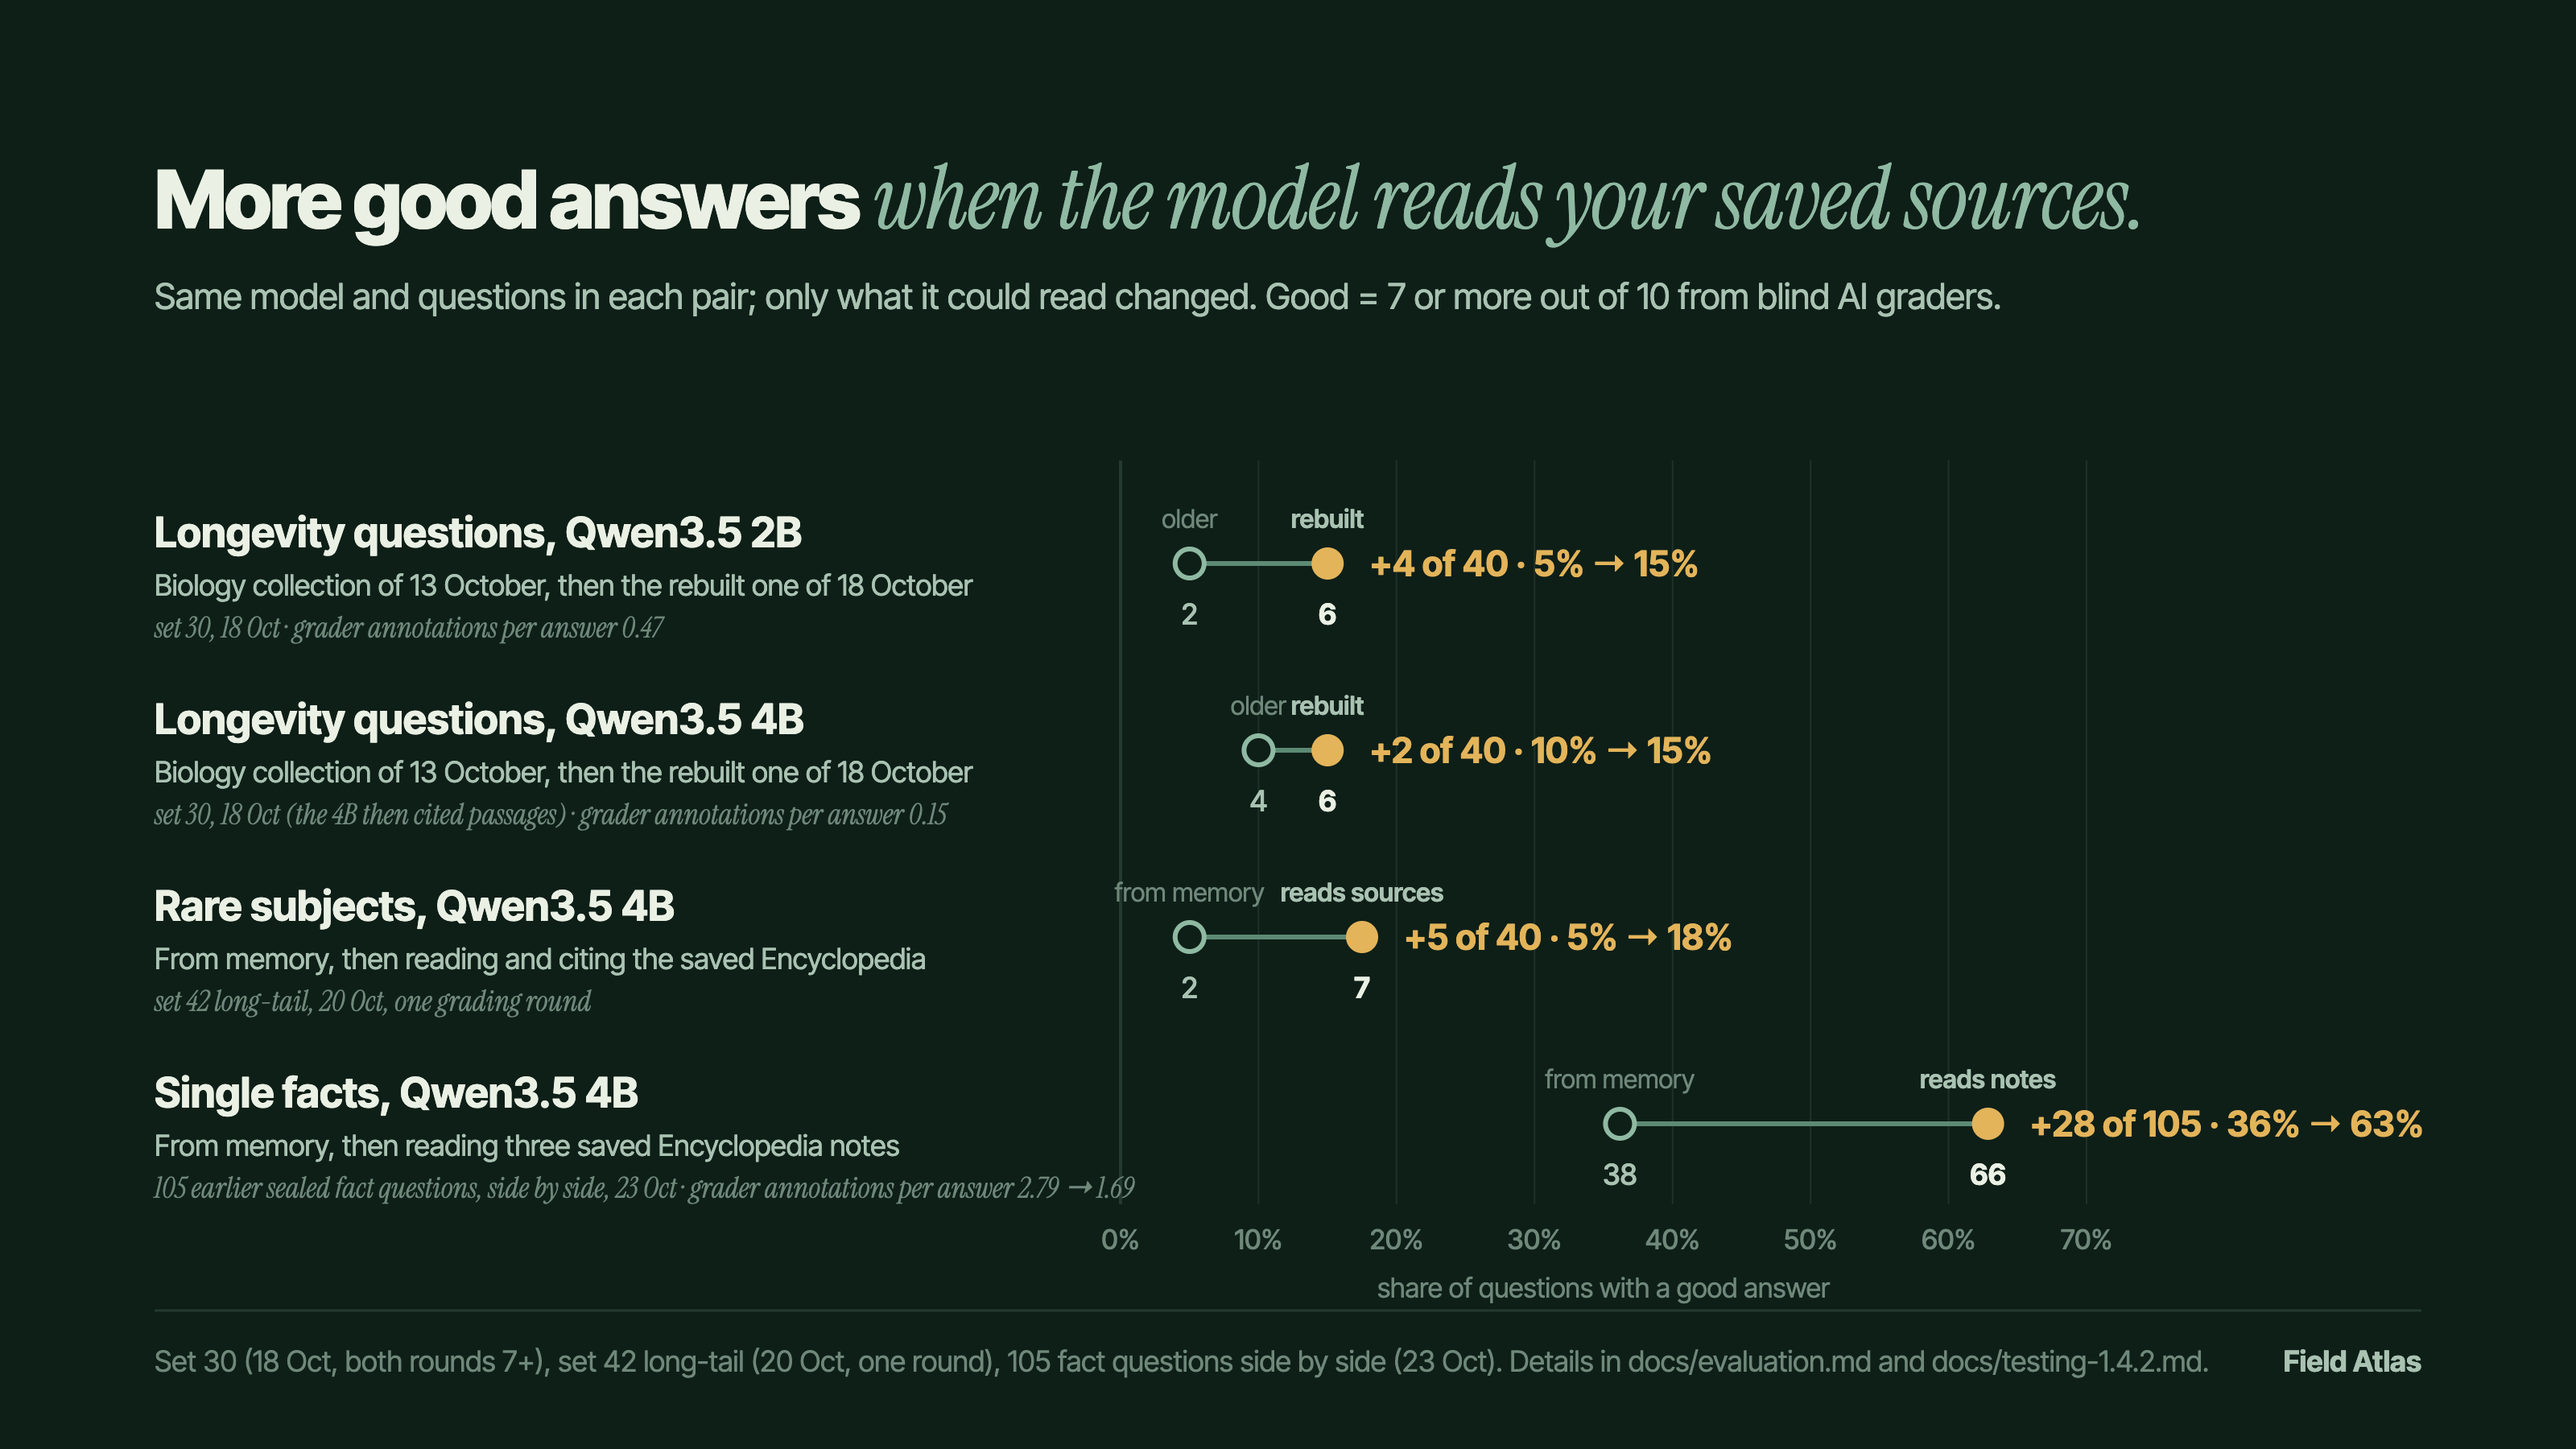
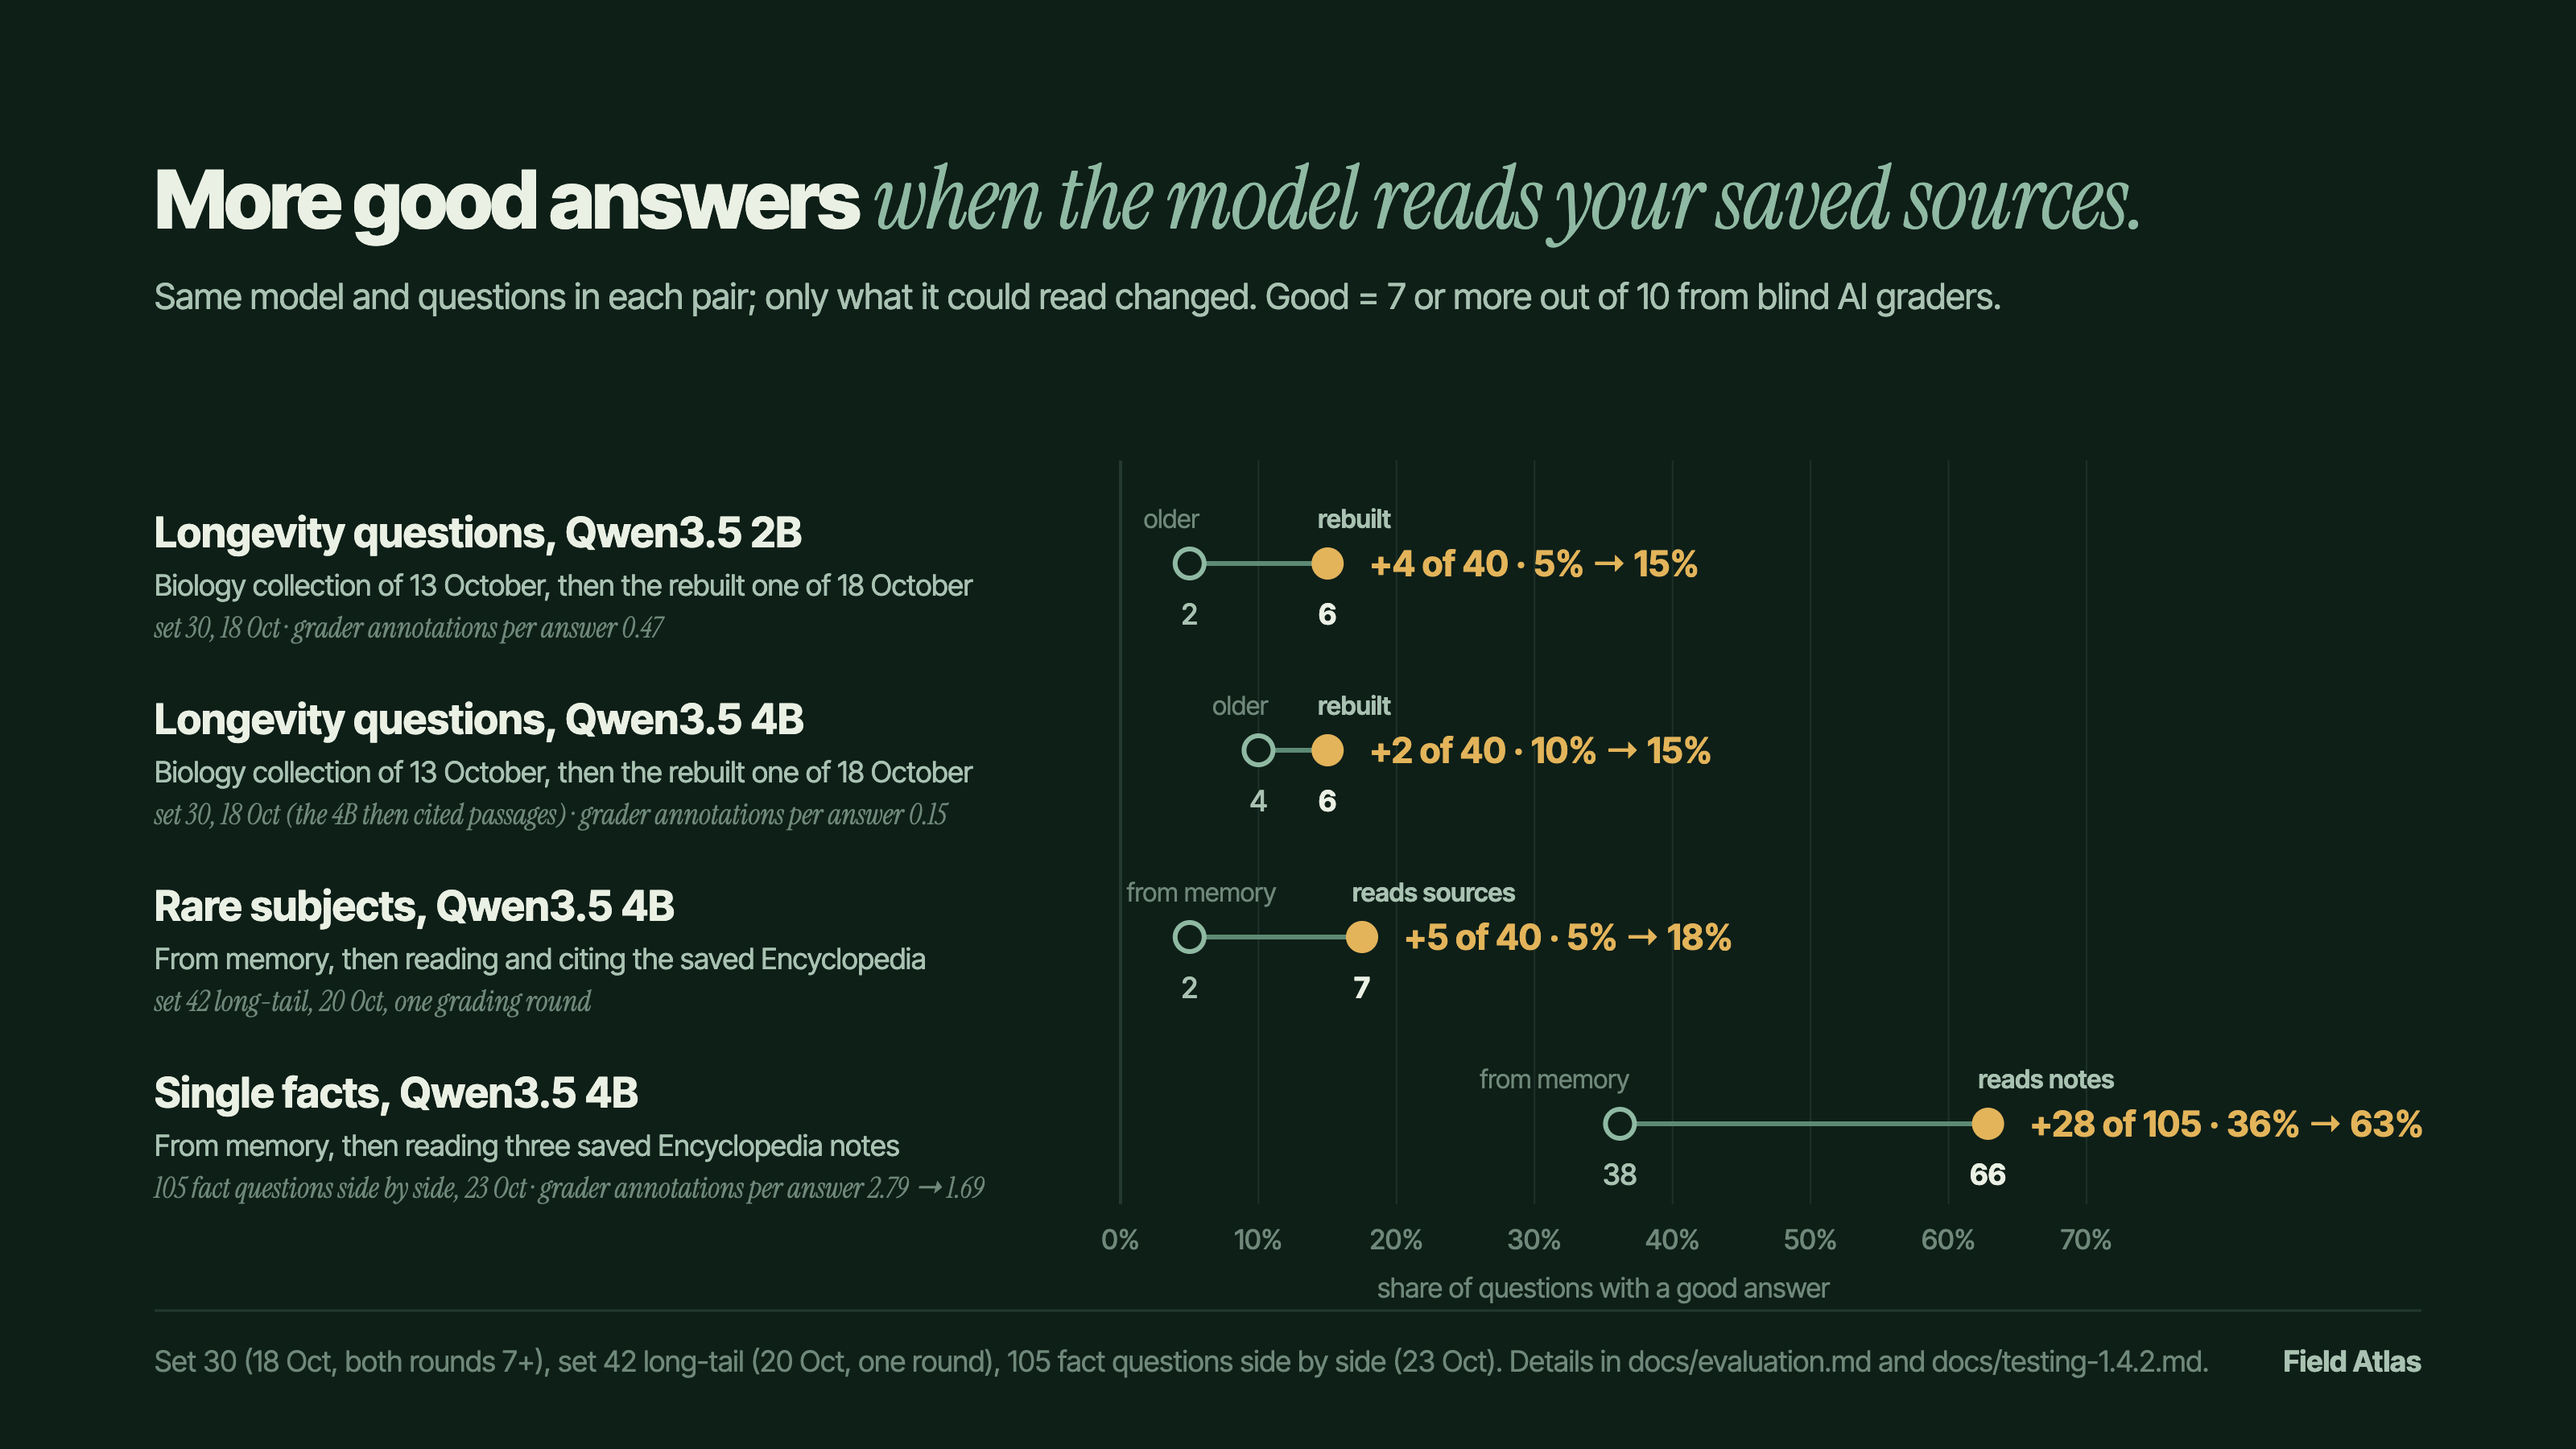
Show the 1.4.2 answer screen in the hero image, and keep the chart labels apart
The hero's screenshot is the final 1.4.2 build on the Redmi 13C in airplane mode: the pantelegraph
question answered by Qwen3.5 2B, the model recommended on a 6 GB phone, with the cited-source and
time pills, the answer and its Wikipedia source card. The caption names the 2B and the date.

In the collections figure each point label now runs outward from its own dot and stays inside the
axis, so close points no longer overlap, and the single-facts note is shortened so it ends before
the chart.

diff --git a/tools/charts/make_charts.py b/tools/charts/make_charts.py
@@ -188,9 +188,11 @@ def collections(data):
         body += f'<line x1="{a:.1f}" y1="{cy}" x2="{b:.1f}" y2="{cy}" stroke="{SAGE_2}" stroke-width="3"/>'
         body += f'<circle cx="{a:.1f}" cy="{cy}" r="9" fill="{GROUND}" stroke="{SAGE_3}" stroke-width="3"/>'
         body += f'<circle cx="{b:.1f}" cy="{cy}" r="10" fill="{AMBER}"/>'
-        body += text(a, cy - 22, r["beforeLabel"], 16, FAINT, anchor="middle")
+        # Each label runs outward from its own dot, so two dots close together never put their labels on top
+        # of each other; a label by a dot near 0% is held inside the axis (about 0.55 em a character).
+        body += text(max(a + 6, scale_x + 0.55 * 16 * len(r["beforeLabel"])), cy - 22, r["beforeLabel"], 16, FAINT, anchor="end")
         body += text(a, cy + 38, f"{r['before']}", 18, DIM, 500, anchor="middle")
-        body += text(b, cy - 22, r["afterLabel"], 16, DIM, 600, anchor="middle")
+        body += text(b - 6, cy - 22, r["afterLabel"], 16, DIM, 600)
         body += text(b, cy + 38, f"{r['after']}", 18, INK, 700, anchor="middle")
         # The gain in answers out of the set, with the shares, so the dots read without the axis.
         body += text(b + 26, cy + 8, f"+{r['after'] - r['before']} of {n} · {round(share(r, r['before']))}% → {round(share(r, r['after']))}%", 22, AMBER, 700)
